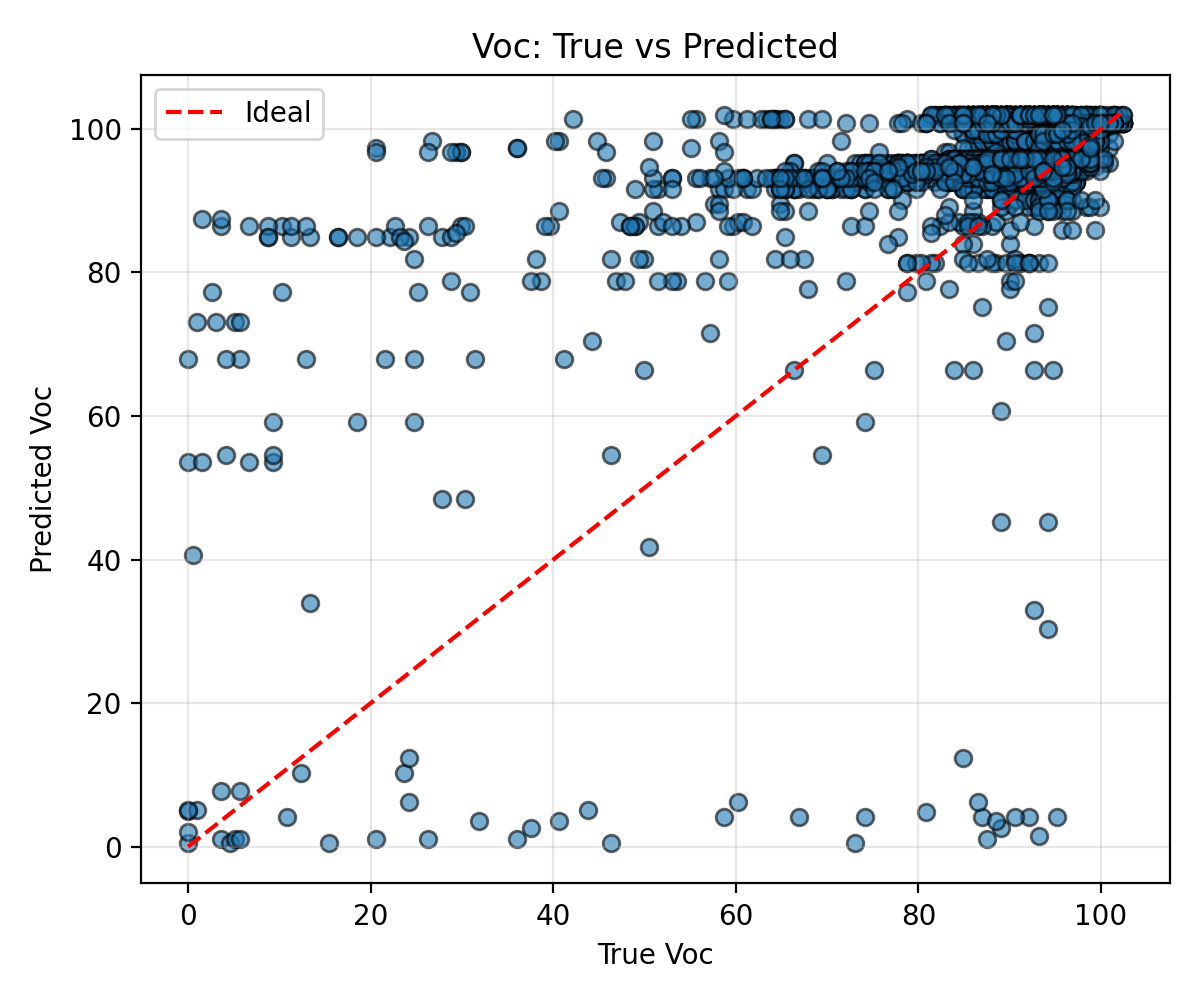
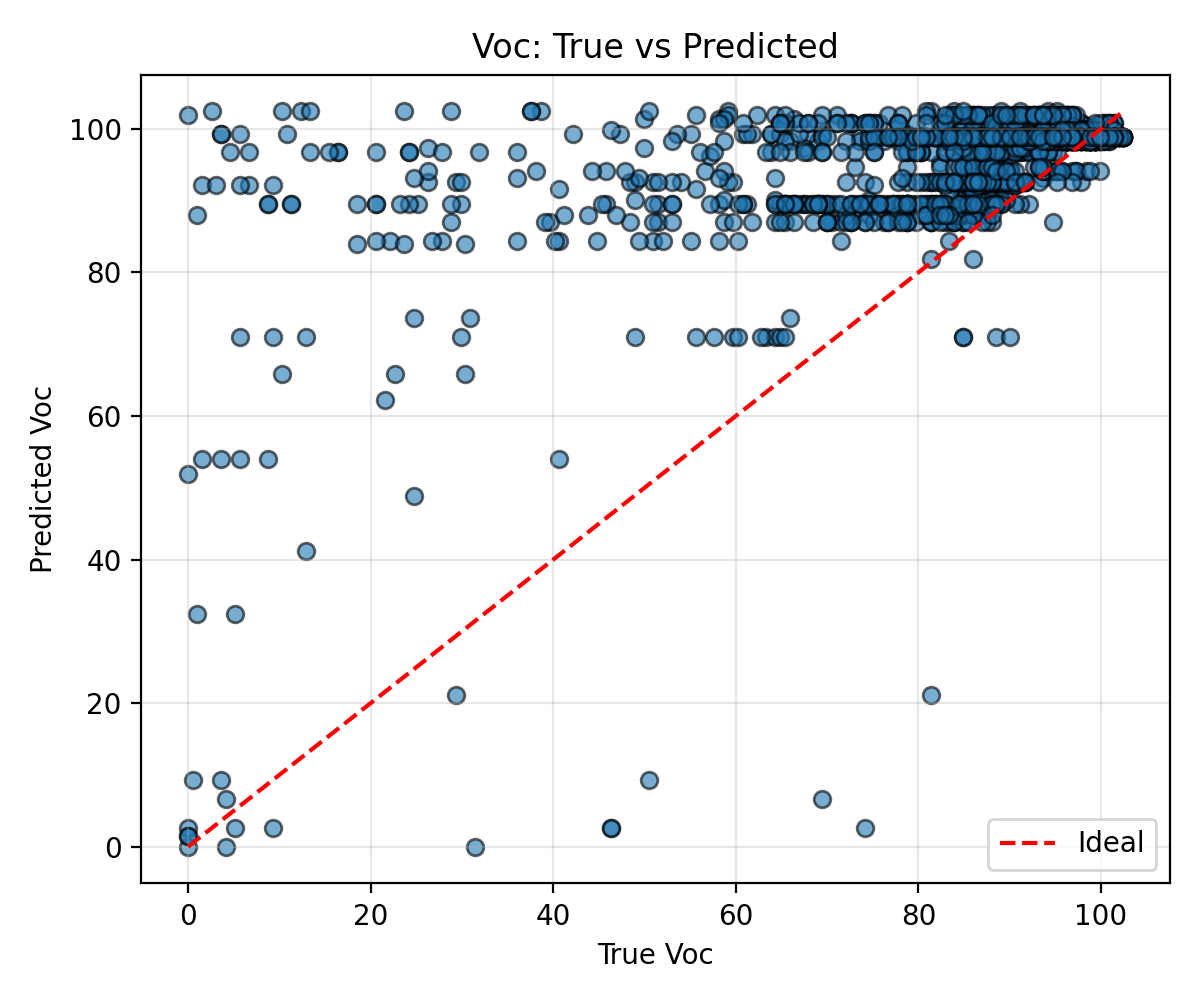
Improved param prediction by increasing latent dim and lamda param, changed diode_head dim

diff --git a/model_autoencoder.py b/model_autoencoder.py
@@ -121,7 +121,7 @@ class PhysicsInformedJVModel(nn.Module):
         jv_dim,
         weather_dim,
         voltage_grid,
-        latent_dim=32,
+        latent_dim=64,
         hidden_dims=(256, 128),
         diode_mean=None,
         diode_std=None,
@@ -157,12 +157,29 @@ class PhysicsInformedJVModel(nn.Module):
         # -----------------------------
         # Diode parameter head
         # -----------------------------
+        # self.diode_head = nn.Sequential(
+        #     nn.Linear(latent_dim + weather_dim, 128),
+        #     nn.ReLU(),
+        #     nn.Linear(128, 64),
+        #     nn.ReLU(),
+        #     nn.Linear(64, 5),  # Iph, Io, n, Rs, Rsh (normalized)
+        # )
         self.diode_head = nn.Sequential(
-            nn.Linear(latent_dim + weather_dim, 128),
+            nn.Linear(latent_dim + weather_dim, 256),
+            nn.BatchNorm1d(256),
             nn.ReLU(),
+
+            nn.Linear(256, 256),
+            nn.BatchNorm1d(256),
+            nn.ReLU(),
+
+            nn.Linear(256, 128),
+            nn.ReLU(),
+
             nn.Linear(128, 64),
             nn.ReLU(),
-            nn.Linear(64, 5),  # Iph, Io, n, Rs, Rsh (normalized)
+
+            nn.Linear(64, 5)
         )
 
         # -----------------------------

diff --git a/plot_jv.py b/plot_jv.py
@@ -218,9 +218,9 @@ def plot_multiple_predictions(
 if __name__ == "__main__":
 
     plot_multiple_predictions(
-        dataset_path="data/jv_autoencoder_dataset_silicon.npz",
-        model_path="models/jv_autoencoder_silicon.pth",
+        dataset_path="data/jv_autoencoder_dataset_perovskite.npz",
+        model_path="models/jv_autoencoder_perovskite.pth",
         n_samples=10,
         random_samples=True,
-        save_dir="outputs/SunPower_5-1/ae/curves",
+        save_dir="outputs/Perovskite_5&6/ae/curves",
     )

diff --git a/train_autoencoder.py b/train_autoencoder.py
@@ -45,8 +45,8 @@ def train(
     lr=1e-4,
     epochs=100,
     val_split=0.2,
-    latent_dim=32,
-    lambda_params=1e-3,
+    latent_dim=64,
+    lambda_params=1e-2,
     lambda_residual=1e-3,
     lambda_latent=1e-5,
 ):
